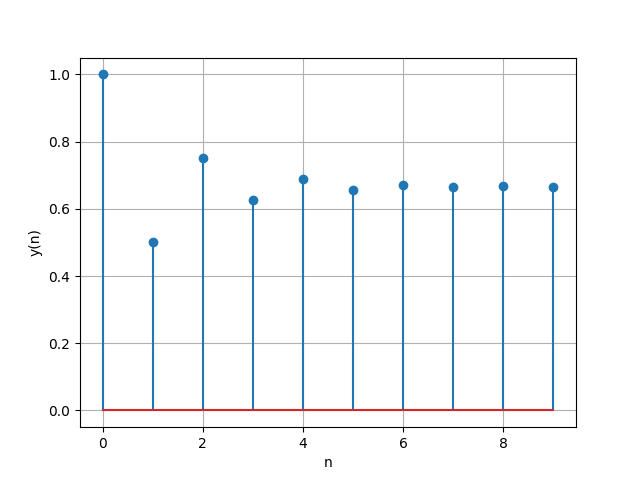
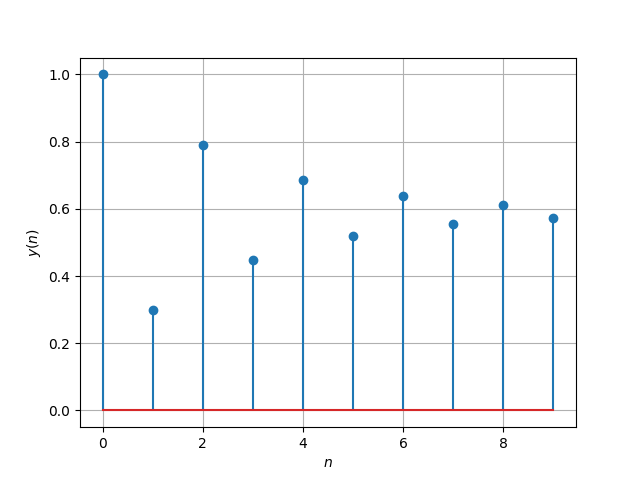
final update 11.9.3.9

diff --git a/Problem 11.9.3.9/codes/fig.py b/Problem 11.9.3.9/codes/fig.py
@@ -1,19 +1,20 @@
 import numpy as np
 import matplotlib.pyplot as plt
 
-def y(n, a):
-    return (1 - (-a)**(n+1)) / (1 + a)
+# Define the function
+def y_n(n, a):
+    return (1 - (-a)**(n + 1)) / (1 + a)
 
-# Define the range of n values
-n_values = np.arange(0, 10)
+# Generate values for n (starting from n=0)
+n_values = np.arange(0, 10, 1)  # Adjust the range and step size as needed
 
-# Define the value of a
-a = 0.5
+# Choose a value for 'a'
+a = 0.7  # You can change this value as needed
 
-# Calculate y values
-y_values = y(n_values, a)
+# Calculate corresponding y values
+y_values = y_n(n_values, a)
 
-# Plotting as discrete sequence
+# Plot the function as a discrete plot
 plt.stem(n_values, y_values)
 plt.xlabel('$n$')
 plt.ylabel('$y(n)$')

diff --git a/Problem 11.9.3.9/main.tex b/Problem 11.9.3.9/main.tex
@@ -90,7 +90,7 @@ Using Z transform pairs  to find the inverse Z-transform:\\
 \end{align}
 \begin{figure}[ht!]
 	\includegraphics[width=\columnwidth]{plots/Figure_1.png}
-	\caption{Plot of $y(n)$}
+	\caption{Plot of $y(n)$ for $a=0.7$}
 	\label{fig:1.2}
 \end{figure}
 \end{document}
